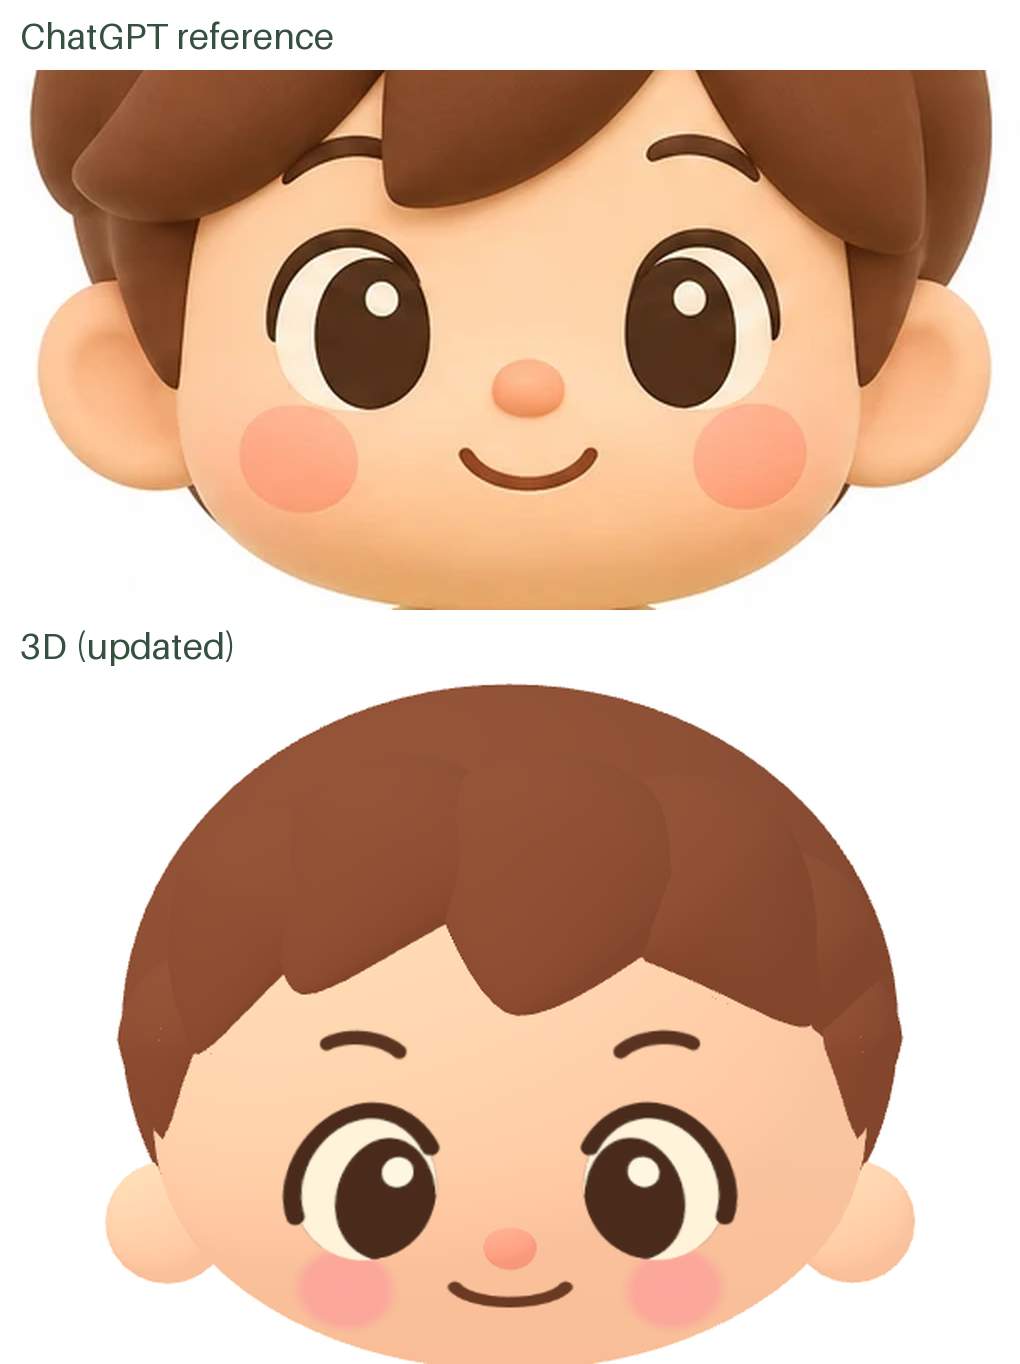
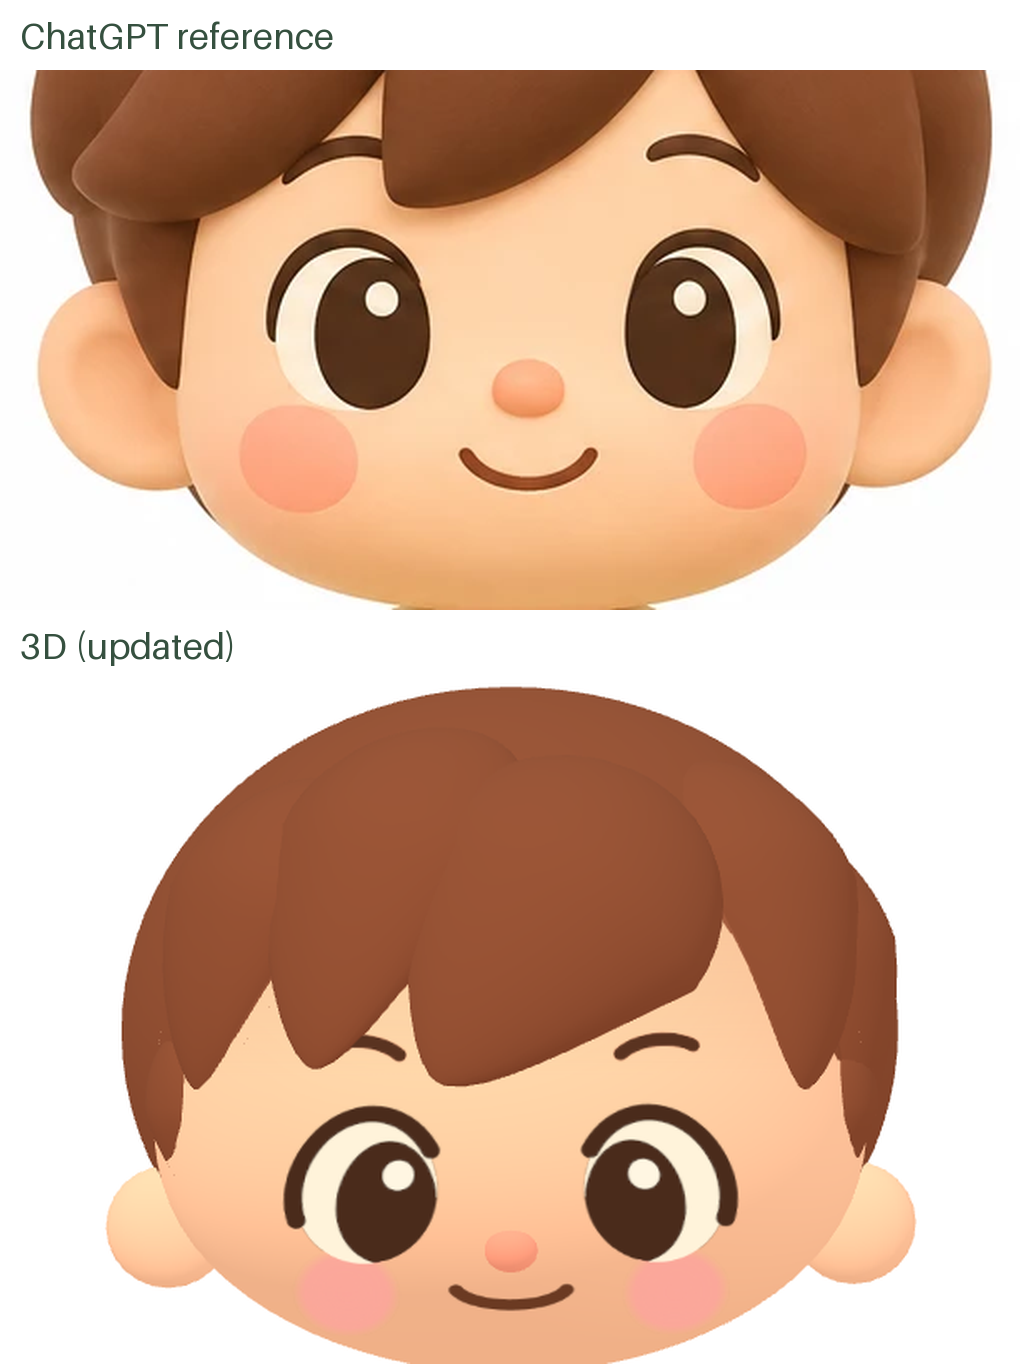
3D 아바타 시제품: 원본 좌표로 계산한 앞머리(오른쪽 가르마), 두 통 반바지, 점토풍 명암
Claude-Session: https://claude.ai/code/session_0159aZotMhLJwovxiTTw4ndE

diff --git a/prototype/3d-avatar/avatar.js b/prototype/3d-avatar/avatar.js
@@ -18,7 +18,7 @@ const HEAD_R = 0.24;
 const FACE = { span: 0.46, W: 1024, H: 1024, alpha: deg(66), t0: deg(40), tLen: deg(108) };
 
 function mat(color, extra = {}) {
-  return new THREE.MeshStandardMaterial({ color, roughness: 0.92, metalness: 0, ...extra });
+  return new THREE.MeshStandardMaterial({ color, roughness: 1, metalness: 0, ...extra });
 }
 
 // 얼굴 그림: 정면에서 본 좌표 그대로 그림 (x 오른쪽 +, y 위쪽 +, 머리 중심 기준)
@@ -29,6 +29,11 @@ export function drawFace(look, mood = 'smile') {
   const k = FACE.W / FACE.span;
   const X = (x) => (x / FACE.span + 0.5) * FACE.W, Y = (y) => (0.5 - y / FACE.span) * FACE.H;
   const ell = (x, y, rx, ry, fill) => { g.beginPath(); g.ellipse(X(x), Y(y), rx * k, ry * k, 0, 0, Math.PI * 2); g.fillStyle = fill; g.fill(); };
+  { // 앞머리가 드리우는 부드러운 그늘
+    const sh = g.createLinearGradient(0, Y(0.2), 0, Y(-0.01));
+    sh.addColorStop(0, '#E8926A66'); sh.addColorStop(0.55, '#E8926A30'); sh.addColorStop(1, '#E8926A00');
+    g.fillStyle = sh; g.fillRect(0, 0, FACE.W, Y(-0.01));
+  }
   for (const s of [-1, 1]) {
     const px = X(s * 0.102), py = Y(-0.168), rx = 0.033 * k * look.cheekScale, ry = 0.037 * k * look.cheekScale;
     g.save(); g.translate(px, py); g.scale(rx, ry);
@@ -91,6 +96,16 @@ function sproutTexture(color) {
   const t = new THREE.CanvasTexture(c); t.colorSpace = THREE.SRGBColorSpace; return t;
 }
 
+// 머리 표면의 dir 방향에 접하도록 놓는 회전값 (z=바깥쪽, y=위쪽, roll=표면 위에서 돌리기)
+function surfaceQuat(dir, roll = 0) {
+  const x = new THREE.Vector3().crossVectors(new THREE.Vector3(0, 1, 0), dir);
+  if (x.lengthSq() < 1e-8) x.set(1, 0, 0);
+  x.normalize();
+  const y = new THREE.Vector3().crossVectors(dir, x);
+  const q = new THREE.Quaternion().setFromRotationMatrix(new THREE.Matrix4().makeBasis(x, y, dir));
+  return q.multiply(new THREE.Quaternion().setFromAxisAngle(new THREE.Vector3(0, 0, 1), deg(roll)));
+}
+
 // 볼살: 머리 아래쪽 절반을 옆으로 통통하게 부풀림 (원본 그림의 넓적한 볼)
 function puff(v) {
   const t = v.y / HEAD_R;
@@ -124,8 +139,7 @@ function lobe(parent, material, yaw, pitch, sx, sy, sz, roll = 0, r = HEAD_R * 0
   const m = new THREE.Mesh(new THREE.SphereGeometry(1, 20, 16), material);
   const dir = new THREE.Vector3(Math.sin(deg(yaw)) * Math.cos(deg(pitch)), Math.sin(deg(pitch)), Math.cos(deg(yaw)) * Math.cos(deg(pitch)));
   m.position.copy(dir).multiplyScalar(r);
-  m.lookAt(dir.clone().multiplyScalar(2));
-  m.rotateZ(deg(roll));
+  m.quaternion.copy(surfaceQuat(dir, roll));
   m.scale.set(sx, sy, sz);
   parent.add(m);
   return m;
@@ -149,8 +163,7 @@ function lock(parent, material, yaw, pitch, w, len, thick, roll = 0, r = HEAD_R 
   const m = new THREE.Mesh(geo, material);
   const dir = new THREE.Vector3(Math.sin(deg(yaw)) * Math.cos(deg(pitch)), Math.sin(deg(pitch)), Math.cos(deg(yaw)) * Math.cos(deg(pitch)));
   m.position.copy(dir).multiplyScalar(r);
-  m.lookAt(dir.clone().multiplyScalar(2));
-  m.rotateZ(deg(roll));
+  m.quaternion.copy(surfaceQuat(dir, roll));
   parent.add(m);
   return m;
 }
@@ -160,7 +173,7 @@ export class Avatar {
     const look = (this.look = { ...DEFAULT_LOOK, ...lookIn });
     const root = (this.root = new THREE.Group());
     const M = {
-      skin: mat(look.skin, { emissive: '#FFB493', emissiveIntensity: 0.2 }), shirt: mat(look.shirt),
+      skin: mat(look.skin, { emissive: '#FFA882', emissiveIntensity: 0.22 }), shirt: mat(look.shirt),
       collar: mat(look.collar), shorts: mat(look.shorts), shoe: mat(look.shoe), sole: mat(look.sole),
     };
 
@@ -177,9 +190,13 @@ export class Avatar {
       this.legs.push(hip);
     }
 
-    // ── 반바지
-    const shortsPts = [[0, 0.17], [0.11, 0.17], [0.138, 0.178], [0.144, 0.2], [0.14, 0.27], [0.12, 0.296], [0, 0.3]].map(([x, y]) => new THREE.Vector2(x, y));
-    const shorts = new THREE.Mesh(new THREE.LatheGeometry(smooth(shortsPts), 32), M.shorts); shorts.scale.z = 0.78; body.add(shorts);
+    // ── 반바지: 골반 덩어리 + 양쪽 통(통은 다리 관절에 붙어 걷기·앉기 때 함께 움직임)
+    const pelvis = new THREE.Mesh(new THREE.SphereGeometry(1, 24, 16), M.shorts); pelvis.scale.set(0.118, 0.03, 0.094); pelvis.position.y = 0.29; body.add(pelvis);
+    for (const hip of this.legs) {
+      const s = Math.sign(hip.position.x);
+      const tube = new THREE.Mesh(new THREE.CylinderGeometry(0.066, 0.07, 0.112, 20), M.shorts); tube.scale.z = 0.94; tube.position.set(s * 0.002, 0.022, 0); hip.add(tube);
+      const hem = new THREE.Mesh(new THREE.TorusGeometry(0.062, 0.011, 10, 22), M.shorts); hem.rotation.x = Math.PI / 2; hem.scale.set(1, 0.94, 1); hem.position.set(s * 0.002, -0.032, 0); hip.add(hem);
+    }
 
     // ── 상체(티셔츠)
     const torso = (this.torso = new THREE.Group()); body.add(torso);
@@ -240,14 +257,14 @@ export class Avatar {
     const hairSolid = mat(look.hair);
     const cap = new THREE.Mesh(new THREE.SphereGeometry(0.256, 56, 44), hairSolid);
     cap.scale.set(1.045, 0.94, 1.02); cap.position.set(0, 0.024, -0.04); head.add(cap);
-    lock(head, hairSolid, 10, 36, 0.102, 0.1, 0.05, -20);                 // 가운데 큰 앞머리(끝이 미간 위로)
-    lock(head, hairSolid, -28, 37, 0.088, 0.092, 0.048, -22);             // 왼쪽 가닥
-    lock(head, hairSolid, -58, 27, 0.09, 0.09, 0.046, -10);               // 왼쪽 관자놀이 가닥
-    lock(head, hairSolid, 46, 31, 0.1, 0.095, 0.048, 30);                 // 오른쪽 가닥
-    lock(head, hairSolid, 70, 19, 0.07, 0.078, 0.042, 12);                // 오른쪽 관자놀이 가닥
-    lock(head, hairSolid, -73, 3, 0.046, 0.06, 0.034, -4, HEAD_R * 1.03); // 귀 앞 옆머리(뾰족)
-    lock(head, hairSolid, 73, 3, 0.046, 0.06, 0.034, 4, HEAD_R * 1.03);
-    lobe(head, hairSolid, 180, -36, 0.17, 0.085, 0.06, 0, HEAD_R * 0.94); // 뒷목
+    lock(head, hairSolid, -60, 28, 0.085, 0.11, 0.046, -2);               // 왼쪽 관자놀이 가닥
+    lock(head, hairSolid, -28, 38, 0.095, 0.13, 0.048, -8);               // 왼쪽 가닥
+    lock(head, hairSolid, 10, 30, 0.112, 0.13, 0.052, -36);               // 가르마에서 왼쪽으로 넘어가는 큰 앞머리
+    lock(head, hairSolid, 64, 30, 0.085, 0.12, 0.048, -16);               // 오른쪽 가닥
+    lock(head, hairSolid, 78, 18, 0.07, 0.11, 0.044, -2);                 // 오른쪽 관자놀이 가닥
+    lock(head, hairSolid, -72, -8, 0.034, 0.058, 0.024, -4, HEAD_R * 1.0);  // 귀 앞 옆머리(가늘고 뾰족)
+    lock(head, hairSolid, 74, -8, 0.034, 0.058, 0.024, 6, HEAD_R * 1.0);
+    lobe(head, hairSolid, 180, -36, 0.17, 0.085, 0.06, 0, HEAD_R * 0.94);   // 뒷목
 
     // 바닥 그림자(가벼운 원판)
     const sh = new THREE.Mesh(new THREE.CircleGeometry(0.2, 24), new THREE.MeshBasicMaterial({ color: '#5a4630', transparent: true, opacity: 0.16, depthWrite: false }));

diff --git a/prototype/3d-avatar/demo.js b/prototype/3d-avatar/demo.js
@@ -7,9 +7,11 @@ const renderer = new THREE.WebGLRenderer({ canvas, antialias: true, preserveDraw
 renderer.setPixelRatio(Math.min(devicePixelRatio, 2));
 renderer.setSize(innerWidth, innerHeight, false);
 const scene = new THREE.Scene();
-scene.add(new THREE.AmbientLight('#fff6ec', 0.75));
-scene.add(new THREE.HemisphereLight('#ffffff', '#ffe3d2', 1.6));
-const sun = new THREE.DirectionalLight('#fff6ea', 0.7); sun.position.set(-2.5, 4, 3.5); scene.add(sun);
+// 점토 인형 같은 부드러운 명암: 주변광은 낮추고, 왼쪽 위 앞에서 오는 따뜻한 빛 + 아래에서 올라오는 살구색 반사광
+scene.add(new THREE.AmbientLight('#fff4ea', 0.55));
+scene.add(new THREE.HemisphereLight('#fffaf2', '#ffdcc2', 1.5));
+const sun = new THREE.DirectionalLight('#fff1dc', 1.15); sun.position.set(-2.2, 3.6, 4.2); scene.add(sun);
+const fill = new THREE.DirectionalLight('#ffe6d6', 0.35); fill.position.set(3, 1.5, 2.5); scene.add(fill);
 const avatars = [];
 let camera;
 if (view === 'faces') {
